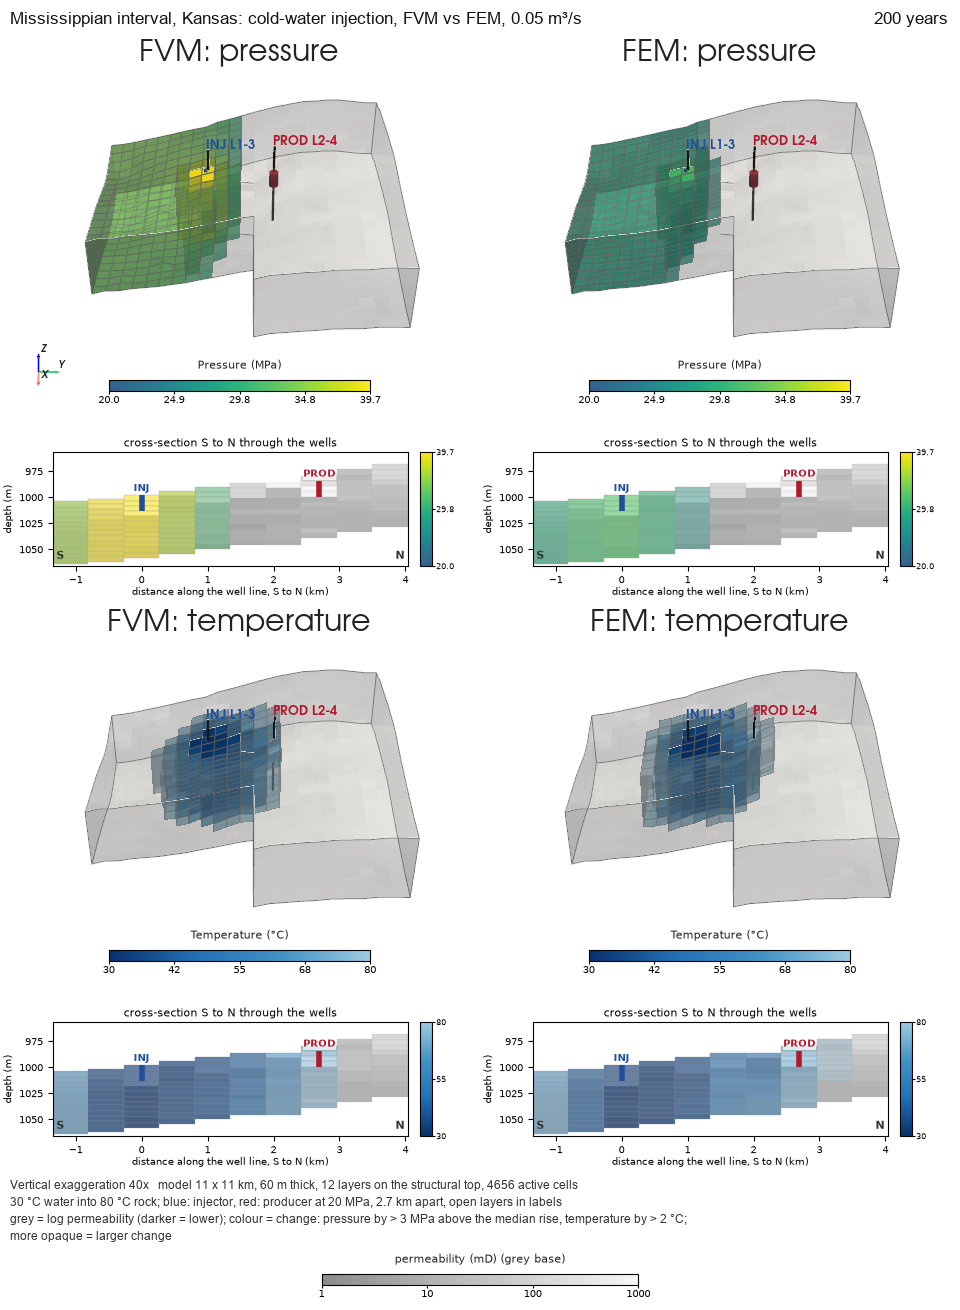
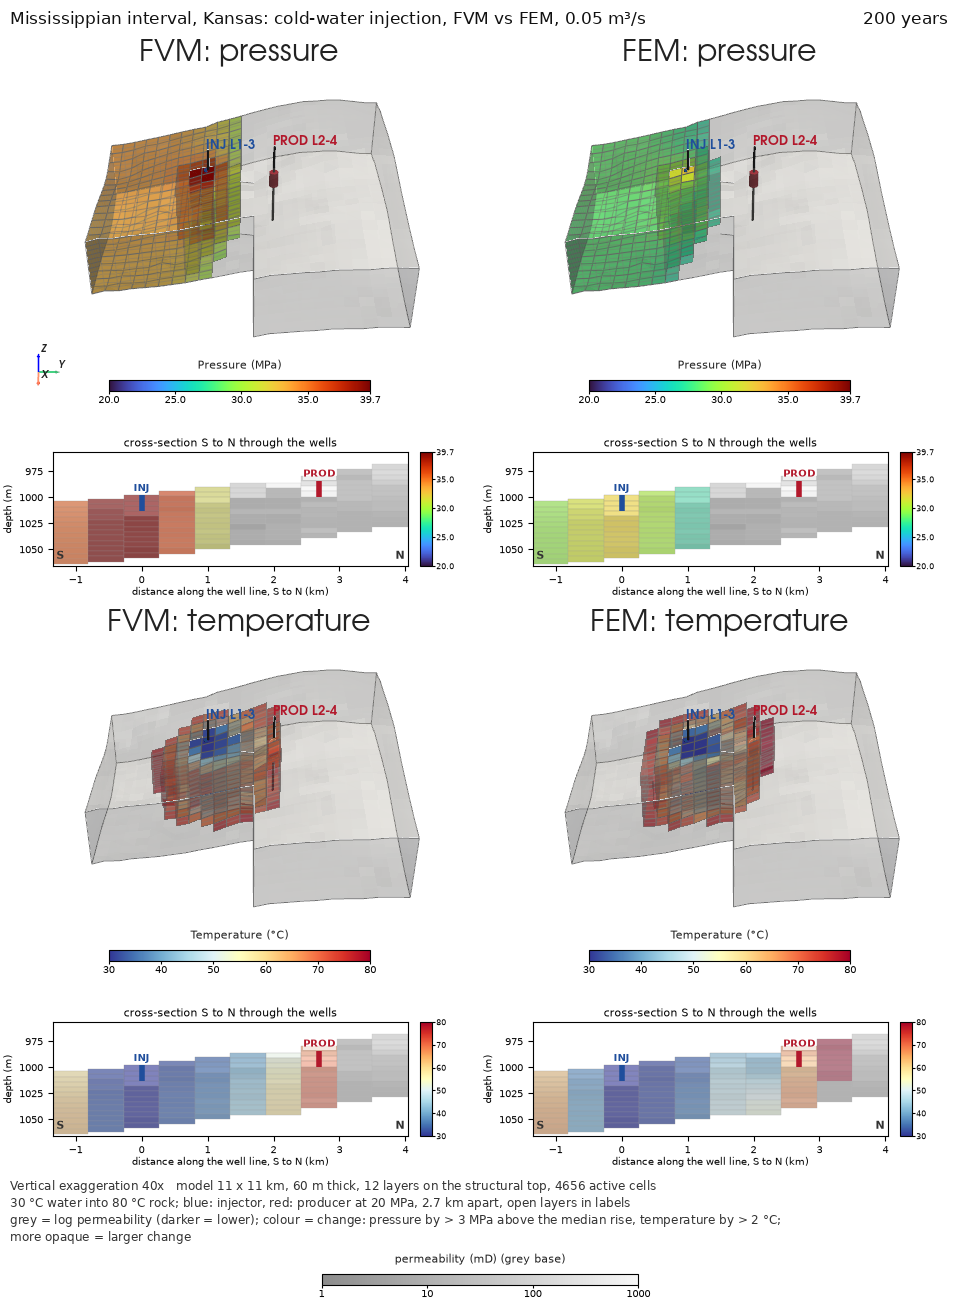
Update Kansas FVM-vs-FEM figure colormaps (turbo pressure, RdYlBu_r temperature)

diff --git a/scripts/make_fem_vs_fim_animation.py b/scripts/make_fem_vs_fim_animation.py
@@ -232,9 +232,10 @@ def main():
                     help="--check limit on the largest producer temperature difference over the report times (degC)")
     ap.add_argument("--check-balance", type=float, default=1e-4,
                     help="--check limit on the water and energy balance error of either solver (relative)")
-    ap.add_argument("--cmap-pressure", default="viridis_bright", help="pressure colormap (any matplotlib name)")
-    ap.add_argument("--cmap-temperature", default="cold",
-                    help="temperature colormap (any matplotlib name; default 'cold': dark blue = coldest, pale = 80 degC)")
+    ap.add_argument("--cmap-pressure", default="turbo",
+                    help="pressure colormap (any matplotlib name; default turbo)")
+    ap.add_argument("--cmap-temperature", default="RdYlBu_r",
+                    help="temperature colormap (any matplotlib name; default RdYlBu_r: 30 degC cold water blue, 80 degC rock red)")
     ap.add_argument("--p-threshold", type=float, default=3.0,
                     help="colour cells whose pressure changed by more than this (MPa) from the initial 20 MPa")
     ap.add_argument("--p-above-background", type=float, default=3.0,
@@ -295,9 +296,10 @@ def main():
     lo, hi = BHP / 1e6, float(np.nanpercentile(np.concatenate([P_fim.ravel(), P_fem.ravel()]), 99.9))
     po = {"label": "Pressure", "units": "MPa", "clim": (lo, hi), "cmap": a.cmap_pressure, "bar_fmt": "%.1f",
           "plume": a.p_threshold, "plume_frac": a.p_threshold_frac,
-          "plume_above_median": None if a.p_threshold_frac or a.p_threshold_abs else a.p_above_background, "ref": BHP / 1e6}  # change from the initial 20 MPa
+          "plume_above_median": None if a.p_threshold_frac or a.p_threshold_abs else a.p_above_background, "ref": BHP / 1e6,  # change from the initial 20 MPa
+          "bar_ticks": [20, 25, 30, 35, 39.7]}
     to = {"label": "Temperature", "units": "°C", "clim": (T_INJ, T_RES), "cmap": a.cmap_temperature, "bar_fmt": "%.0f",
-          "plume": a.t_threshold, "ref": T_RES}
+          "plume": a.t_threshold, "ref": T_RES, "bar_ticks": [30, 40, 50, 60, 70, 80]}
     panels = [("FVM: pressure", P_fim, {**po, "bar": False}), ("FEM: pressure", P_fem, {**po, "bar": True}),
               ("FVM: temperature", T_fim, {**to, "bar": False}), ("FEM: temperature", T_fem, {**to, "bar": True})]
     n_act = int(np.asarray(grid.active).sum())

diff --git a/examples/_build_nb12.py b/examples/_build_nb12.py
@@ -404,7 +404,8 @@ without wells inactive). Settings you can adjust on the command line:
   **not** certify property-model validity or acceptable injection pressure.
 - Colormaps (any matplotlib colormap name): `--cmap` (saturation, default `viridis_bright`: viridis without its dark end) in `kansas_fluids.py`;
   `--cmap-pressure` (default `viridis_bright`) and `--cmap-temperature` (default `cold`) in
-  `make_methods_animation.py`; `--background-cmap` (faint porosity base, default `porosity_grey`: darker = tighter rock) in both,
+  `make_methods_animation.py`; `--cmap-pressure` (default `turbo`) and `--cmap-temperature` (default `RdYlBu_r`) in
+  `make_fem_vs_fim_animation.py`; `--background-cmap` (faint porosity base, default `porosity_grey`: darker = tighter rock) in both,
   `--no-background` to turn the base off;
   `scripts/make_porosity_image.py --cmap` (porosity picture, default `copper`). In Python, `animate_layered`
   takes `cmap` (or a per-panel `cmap` option) and `background_cmap`, as names or `Colormap` objects.

diff --git a/README.md b/README.md
@@ -220,6 +220,9 @@ The FVM cache records **107.3 s** for its original run; these are not a same-mac
 - 0.05 m³/s of 30 °C water into an 80 °C reservoir; injector (6, 8), open layers 1–3; producer (8, 13), layers 2–4, held at 20 MPa.
 - No gravity; same water/rock constitutive model and 0.25-year maximum time step; FEM streamline-upwind stabilization factor 1.
 - Forty report times, every five years through year 200; the GIF includes its final-frame hold.
+- Pressure colour: shared 20.0–39.7 MPa `turbo` scale; cells within 3 MPa of the median rise in each frame stay on
+  the grey permeability base. Temperature colour: shared 30–80 °C `RdYlBu_r` scale (blue = 30 °C injected water,
+  red = 80 °C initial rock); cells within 2 °C of the initial 80 °C stay grey.
 
 Renderer: `scripts/make_fem_vs_fim_animation.py`. `--fvm-from-npz` reuses the original FVM heat cache
 and computes FEM only; `--save-fem-npz` and `--save-npz` retain the new results; `--from-npz` renders
